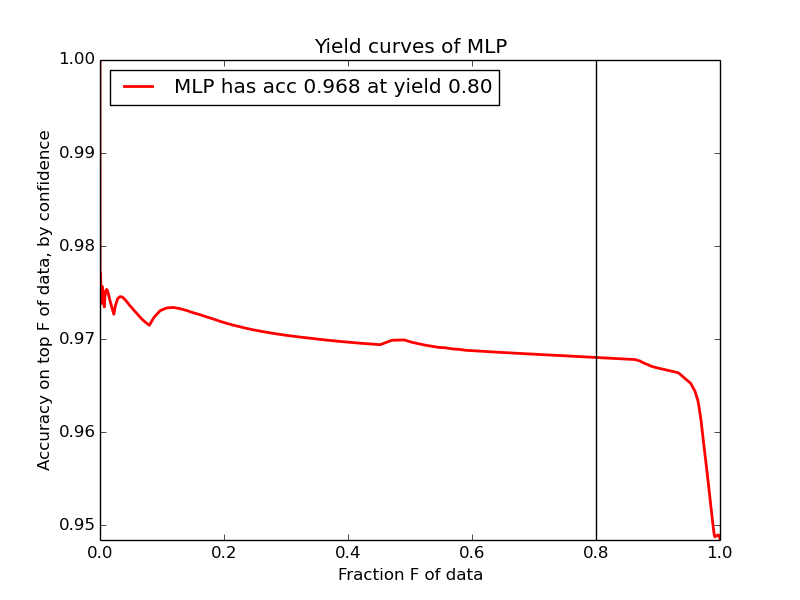
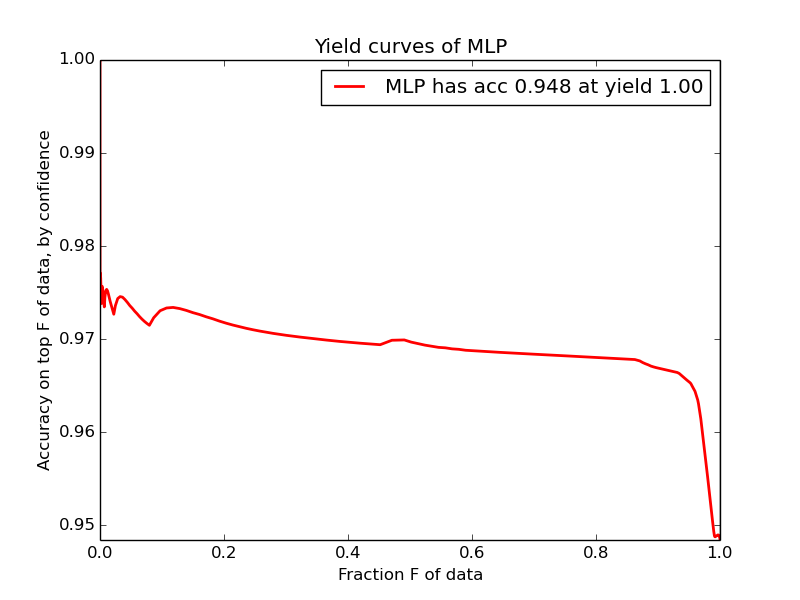
adjustable yield threshold

Changed region(s): [[0.125, 0.09, 0.9062, 0.9]]

diff --git a/engine/view_curves.py b/engine/view_curves.py
@@ -89,7 +89,6 @@ def auc_from_roc(sensitivities, selectivities):
         r_old, d_old = r, d
     return auc
 
-@memoize
 def roc_curve(model_nm):
     ''' A `receiver-operating characteristic curve`
         plots sensitivity vs selectivity.
@@ -98,7 +97,6 @@ def roc_curve(model_nm):
     return '%s has auc=%.3f' % (model_nm, auc_from_roc(rs, ds)), \
            ds, rs
 
-@memoize
 def logroc_curve(model_nm, eps=1e-6):
     ''' A `logscale receiver-operating characteristic curve`
         plots f(sensitivity) vs f(selectivity), where
@@ -109,14 +107,13 @@ def logroc_curve(model_nm, eps=1e-6):
     return '%s has auc=%.3f' % (model_nm, auc_from_roc(rs, ds)), \
            f(ds), f(rs)
 
-@memoize
 def conf_curve(model_nm):
     ''' A `confidence curve` plots accuracy vs min conf '''
     confs, correct_cum, total_cum = get_cums(model_nm)
     return model_nm, confs, (correct_cum/total_cum)
 
-@memoize
-def yield_curve(model_nm, thresh_yield=0.8):
+THRESH_YIELD = 0.8
+def yield_curve(model_nm):
     ''' A `yield curve` plots accuracy vs yield.
 
         The blurring done in `get_cums` potentially makes
@@ -126,11 +123,11 @@ def yield_curve(model_nm, thresh_yield=0.8):
     confs, correct_cum, total_cum = get_cums(model_nm)
     i = np.argmax(total_cum)
     yields, accuracies =  (total_cum/max(total_cum))[i:], (correct_cum/total_cum)[i:]
-    i = np.searchsorted(-yields, -thresh_yield) # yields is nonincreasing 
+    i = np.searchsorted(-yields, -THRESH_YIELD) # yields is nonincreasing 
     ybig, asmall = yields[i-1], accuracies[i-1]
     ysmall, abig = yields[i]  , accuracies[i]
-    acc = abig + (asmall-abig) * (thresh_yield-ysmall)/(ybig-ysmall)  
-    return '%s has acc %.3f at yield %.2f' % (model_nm, acc, thresh_yield), \
+    acc = abig + (asmall-abig) * (THRESH_YIELD-ysmall)/(ybig-ysmall)  
+    return '%s has acc %.3f at yield %.2f' % (model_nm, acc, THRESH_YIELD), \
            yields, accuracies
 
 curve_getters_by_mode = {
@@ -148,15 +145,23 @@ def view_curves():
 
         TODO: merge with history viewing, and refactor all
     '''
+    global THRESH_YIELD
+
     mode = 'yield'  
     for command in user_input_iterator():
-        if command in curve_getters_by_mode:
-            mode = command
+        words = command.split()
+        if not words:
+            continue
+
+        if words[0] in curve_getters_by_mode:
+            mode = words[0]
+            if mode=='yield' and words[1:]:
+               THRESH_YIELD = float(words[1])
             print(colorize('{BLUE}switched to `%s` mode{GREEN}' % mode))
             continue
 
-        model_nms = command.split() 
         min_y = float('inf') 
+        model_nms = words
         for nm in model_nms:
             try:
                 color = get('MODEL.%s.PLOTCOLOR' % nm)
@@ -167,8 +172,9 @@ def view_curves():
             min_y = min(min_y, np.amin(yvals))
             plt.plot(xvals, yvals, label=label,
                      color=color, ls='-', lw=2.0)
+
         if mode=='yield':
-            plt.plot([0.8, 0.8], [min_y, 1.0], 
+            plt.plot([THRESH_YIELD, THRESH_YIELD], [min_y, 1.0], 
                      color='k', ls='-', lw=1.0)
             plt.title('Yield curves of %s' % ', '.join(model_nms))
             plt.gca().set_xlabel('Fraction F of data')
